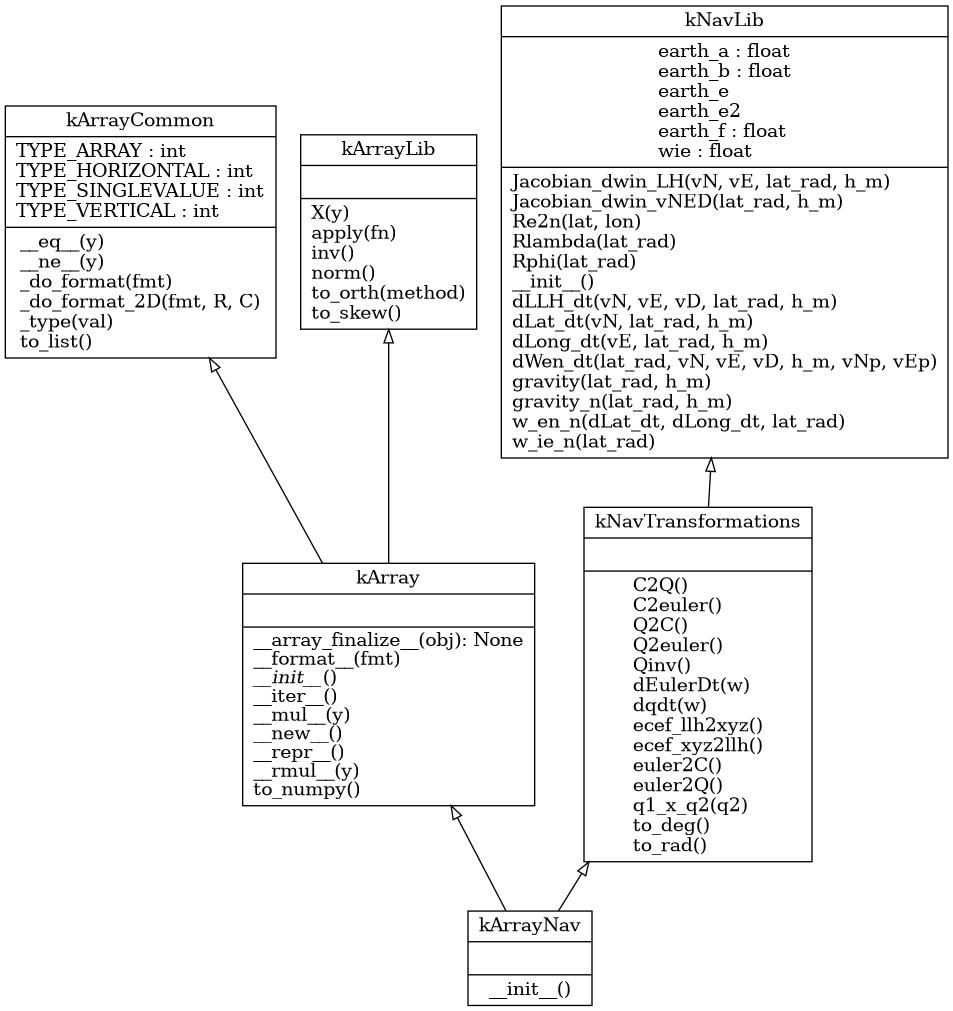
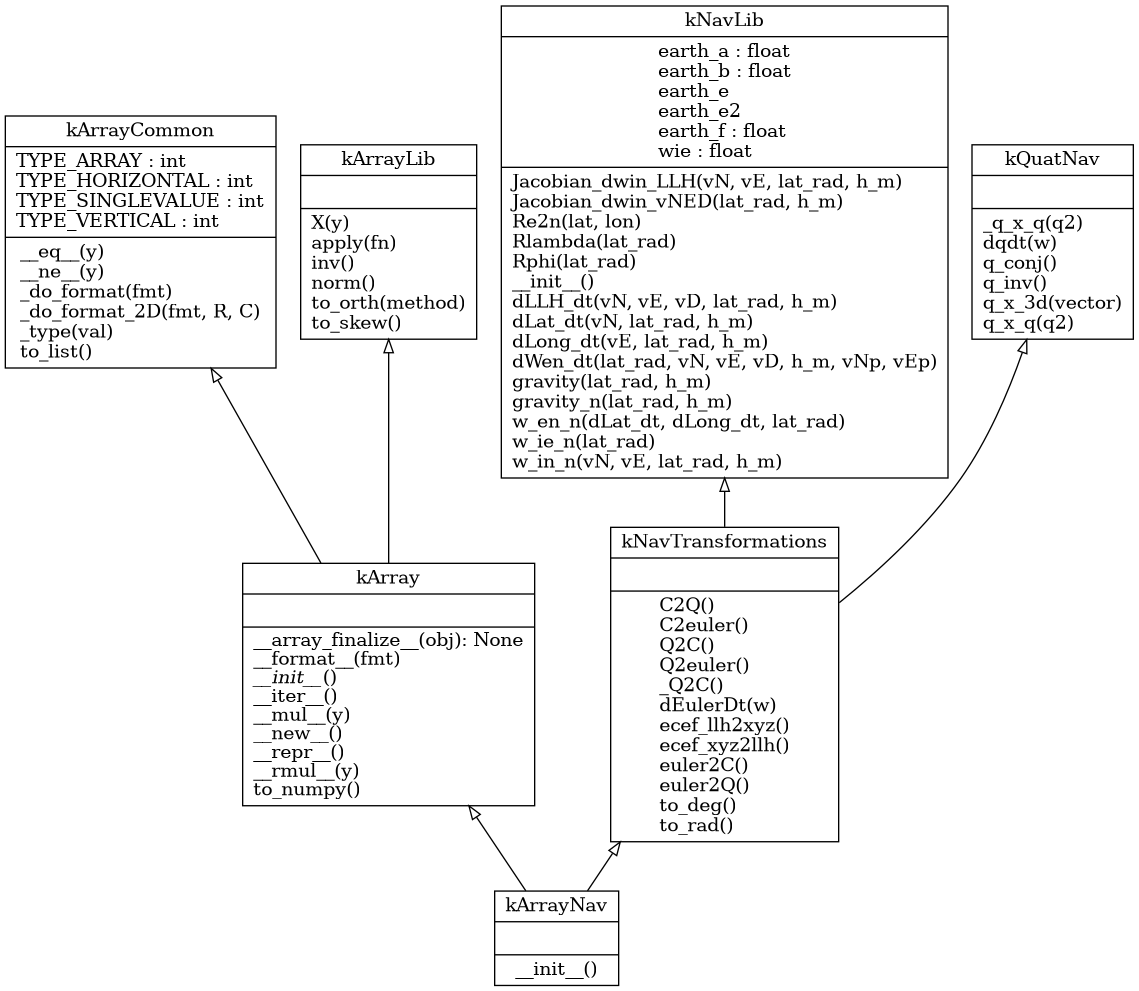
refactoring: quaternion-methods isolated in a new class

diff --git a/knavigation/kQuatNav.py b/knavigation/kQuatNav.py
@@ -1,0 +1,184 @@
+#!/usr/bin/env python3
+# -*- coding: utf-8 -*-
+#>>--<<..>>--<<..>>--<<..>>--<<..>>--<<..>>--<<..>>--<<..>>
+"""
+Datei: kQuatNav.py
+Beschreibung: Some basic operations with quaternions.
+Autor: Luciano Auguto Kruk
+Erstellt am: 06.09.2025
+Version: 1.0.0
+Lizenz:
+GitHub:
+"""
+#>>--<<..>>--<<..>>--<<..>>--<<..>>--<<..>>--<<..>>--<<..>>
+import sys
+print( "**************************************" )
+print(f"** __name__    = {__name__}")
+print(f"** __package__ = {__package__}")
+print(f"** sys.path[0] = {sys.path[0]}")
+#>>--<<..>>--<<..>>--<<..>>--<<..>>--<<..>>--<<..>>--<<..>>
+import numpy as np
+from .kArray    import kArray
+#>>--<<..>>--<<..>>--<<..>>--<<..>>--<<..>>--<<..>>--<<..>>
+
+#>>--<<..>>--<<..>>--<<..>>--<<..>>--<<..>>--<<..>>--<<..>>
+class kQuatNav:
+    """
+    The operations described here are based on Titterton & Weston, Strapdown Inertial Navigation Theory.
+    The convention here is to have quaternions with the real part as the first element:
+
+            q = R + i.U + j.V + k.W
+    """
+
+    def q_inv(self):
+        """
+        Calculates the inverse of a quaternion. This is similar to inverting a
+        transformation matrix.
+        """
+        shape = self.shape
+        tmp   = self.squeeze().tolist()
+        ret   = [tmp[0]] + [-i for i in tmp[1:]]
+        return self.__class__( np.asarray(ret).reshape(shape) / sum( [i**2 for i in ret] ))
+
+    def q_conj(self):
+        """
+        Calculates the conjugated quaternion of the input.
+
+        **Remark**: the first element is the real part of the quaternion here: (a + b.i + c.j + d.k)
+        """
+        #return self.__class__( np.hstack(([self[0]] + [-i for i in self[1:]])), hvector=False )
+        return self.__class__( [-i if idx >= 1 else i for idx,i in enumerate(self) ], hvector=False )
+
+    def q_x_q(self, q2):
+        """
+        Navigation -- multiplies two quaternions
+        (Titterton (3.55)-(3.56))
+
+        **Remark** Here there are some hints on how to cascade quaternions for multiple
+        transformations. See the respective test-units for details on the implementation.
+
+            euler_a2b  -->  Ca2b | qa2b
+            euler_b2c  -->  Cb2c | qb2c
+
+            Ca2c = Cb2c * Ca2b
+            qa2c = qa2b o qb2c  <== where 'o' is the product `q_x_q()`.
+
+        output: np.array quaternion q3=q1.q2
+        """
+
+        q1 = self.squeeze()
+        assert len(q1) == 4
+
+        if hasattr(q2, "squeeze"):
+            q2 = q2.squeeze()
+
+        assert len(q2) == 4
+
+        q3 = np.array([
+            (q1[0]*q2[0]) - (q1[1]*q2[1]) - (q1[2]*q2[2]) - (q1[3]*q2[3]),
+            (q1[1]*q2[0]) + (q1[0]*q2[1]) - (q1[3]*q2[2]) + (q1[2]*q2[3]),
+            (q1[2]*q2[0]) + (q1[0]*q2[2]) + (q1[3]*q2[1]) - (q1[1]*q2[3]),
+            (q1[3]*q2[0]) + (q1[0]*q2[3]) - (q1[2]*q2[1]) + (q1[1]*q2[2]),
+        ])
+
+        return self.__class__( q3, hvector=False )
+
+    def _q_x_q(self, q2):
+        """
+        Same as q_x_q(), but calculate with another equation, more theoretical.
+
+        q = [s v^T]^T
+
+        """
+        # assumption: q = [real, imag^T]^T
+        q1 = self.squeeze()
+        q2 = q2.squeeze()
+
+        s1 = q1[0]
+        v1 = q1[1:].view(np.ndarray)
+
+        s2 = q2[0]
+        v2 = q2[1:].view(np.ndarray)
+
+        # q1 x q2:
+        s3 = (s1*s2) - (v1.dot(v2))
+        v3 = (s1*v2) + (s2*v1) + np.cross(v1,v2)
+
+        return self.__class__( np.hstack( (s3,v3) ), hvector=False )
+
+    def q_x_3d(self, vector):
+        """
+        Resolves a vector in another frame.
+        This is similar to Ca2b x vector, but directly using quaternions.
+        (Titterton (3.57))
+
+        **Remark** Note that Titterton's equation matches his convention of
+        creating quaternions using euler angles from frames a^ to b^, but
+        performing transformations from b^ to a^.
+
+        Here we provide an operation that uses a quaternion from a^ to b^ and
+        a vector transformation also from a^ to b^. Hence:
+        rb = q_a2b*  o  ra  o  q_a2b
+
+        The vectors rb and ra are quaternion-form vectors (real-part = 0),
+        but this is not important for inputs and output, which are 3D only.
+
+        Inputs:
+            Q4 (a + b.i + c.j + d.k)  :  quaternions
+            vector                    :  3D vector
+
+        Returns
+            vector  :   3D vector resolved in another frame
+
+        """
+
+        # To be complete, we shall include the next line to invert the
+        # quaternion and have the correct input for the transformation without
+        # the C matrix.
+        q = self.q_inv().squeeze() # <== first, use the inverse; see comments in the docstring
+        v = vector.squeeze()
+
+        # checks:
+        assert len(q) == 4
+        assert len(v) == 3
+
+        # augmenting v to be an imaginary quaternion:
+        v = np.hstack((0, v))
+
+        # conjugate q:
+        q_j = q.q_conj()
+
+        # transformed vector (without the real part):
+        ret = self.__class__(q).q_x_q(v).q_x_q(q_j)[1:] # <= to remove the real part
+
+        return ret
+
+    def dqdt(self, w):
+        """
+        The derivative of the quaternions is $\\dot{q} = 1/2 .B(w).q$
+        This funtion returns $\\dot{q}$.
+        : input  : q4
+        : output : d(q4)dt
+        """
+
+        assert len(self.squeeze()) == 4
+
+        K      = 1e1
+        cq     = kArray( [i for i in self], hvector=False )
+        cq2    = kArray( [i*i for i in self], hvector=False )
+        W      = kArray( w, hvector=True )
+        epslon = 1.0 - sum(cq2.to_list())
+
+        B = kArray( [
+            [   0, -W[0][0], -W[0][1], -W[0][2]],
+            [W[0][0],     0,  W[0][2], -W[0][1]],
+            [W[0][1], -W[0][2],     0,  W[0][0]],
+            [W[0][2],  W[0][1], -W[0][0],     0]
+        ] )
+
+        dq = (0.5 * B * cq) + (K*epslon*cq)
+        return self.__class__( dq )
+
+#>>--<<..>>--<<..>>--<<..>>--<<..>>--<<..>>--<<..>>--<<..>>
+#>>--<<..>>--<<..>>--<<..>>--<<..>>--<<..>>--<<..>>--<<..>>
+#>>--<<..>>--<<..>>--<<..>>--<<..>>--<<..>>--<<..>>--<<..>>

diff --git a/knavigation/kArrayNav.py b/knavigation/kArrayNav.py
@@ -18,14 +18,15 @@ print(f"** __package__ = {__package__}")
 print(f"** sys.path[0] = {sys.path[0]}")
 #>>--<<..>>--<<..>>--<<..>>--<<..>>--<<..>>--<<..>>--<<..>>
 import numpy as np
-from math     import sin, sqrt, cos, tan, atan, atan2, asin, pi
-from mpmath   import sec
-from .kArray  import kArray
-from .kNavLib import kNavLib
+from math      import sin, sqrt, cos, tan, atan, atan2, asin, pi
+from mpmath    import sec
+from .kArray   import kArray
+from .kNavLib  import kNavLib
+from .kQuatNav import kQuatNav
 #>>--<<..>>--<<..>>--<<..>>--<<..>>--<<..>>--<<..>>--<<..>>
 
 #>>--<<..>>--<<..>>--<<..>>--<<..>>--<<..>>--<<..>>--<<..>>
-class kNavTransformations(kNavLib):
+class kNavTransformations(kNavLib, kQuatNav):
 
     def to_deg(self):
         return self.__class__(self * 180. / pi)
@@ -218,129 +219,6 @@ class kNavTransformations(kNavLib):
         """
         return self.__class__( self.C2euler().euler2Q() )
 
-    def q_inv(self):
-        """
-        Calculates the inverse of a quaternion. This is similar to inverting a
-        transformation matrix.
-        """
-        shape = self.shape
-        tmp   = self.squeeze().tolist()
-        ret   = [tmp[0]] + [-i for i in tmp[1:]]
-        return self.__class__( np.asarray(ret).reshape(shape) / sum( [i**2 for i in ret] ))
-
-    def q_conj(self):
-        """
-        Calculates the conjugated quaternion of the input.
-
-        **Remark**: the first element is the real part of the quaternion here: (a + b.i + c.j + d.k)
-        """
-        #return self.__class__( np.hstack(([self[0]] + [-i for i in self[1:]])), hvector=False )
-        return self.__class__( [-i if idx >= 1 else i for idx,i in enumerate(self) ], hvector=False )
-
-    def q_x_q(self, q2):
-        """
-        Navigation -- multiplies two quaternions
-        (Titterton (3.55)-(3.56))
-
-        **Remark** Here there are some hints on how to cascade quaternions for multiple
-        transformations. See the respective test-units for details on the implementation.
-
-            euler_a2b  -->  Ca2b | qa2b
-            euler_b2c  -->  Cb2c | qb2c
-
-            Ca2c = Cb2c * Ca2b
-            qa2c = qa2b o qb2c  <== where 'o' is the product `q_x_q()`.
-
-        output: np.array quaternion q3=q1.q2
-        """
-
-        q1 = self.squeeze()
-        assert len(q1) == 4
-
-        if isinstance(q2, kArrayNav) or isinstance(q2, kArray):
-            q2 = q2.squeeze()
-        assert len(q2) == 4
-
-        q3 = np.array([
-            (q1[0]*q2[0]) - (q1[1]*q2[1]) - (q1[2]*q2[2]) - (q1[3]*q2[3]),
-            (q1[1]*q2[0]) + (q1[0]*q2[1]) - (q1[3]*q2[2]) + (q1[2]*q2[3]),
-            (q1[2]*q2[0]) + (q1[0]*q2[2]) + (q1[3]*q2[1]) - (q1[1]*q2[3]),
-            (q1[3]*q2[0]) + (q1[0]*q2[3]) - (q1[2]*q2[1]) + (q1[1]*q2[2]),
-        ])
-
-        return self.__class__( q3, hvector=False )
-
-    def _q_x_q(self, q2):
-        """
-        Same as q_x_q(), but calculate with another equation, more theoretical.
-
-        q = [s v^T]^T
-
-        """
-        # assumption: q = [real, imag^T]^T
-        q1 = self.squeeze()
-        q2 = q2.squeeze()
-
-        s1 = q1[0]
-        v1 = q1[1:].view(np.ndarray)
-
-        s2 = q2[0]
-        v2 = q2[1:].view(np.ndarray)
-
-        # q1 x q2:
-        s3 = (s1*s2) - (v1.dot(v2))
-        v3 = (s1*v2) + (s2*v1) + np.cross(v1,v2)
-
-        return self.__class__( np.hstack( (s3,v3) ), hvector=False )
-
-    def q_x_3d(self, vector):
-        """
-        Resolves a vector in another frame.
-        This is similar to Ca2b x vector, but directly using quaternions.
-        (Titterton (3.57))
-
-        **Remark** Note that Titterton's equation matches his convention of
-        creating quaternions using euler angles from frames a^ to b^, but
-        performing transformations from b^ to a^.
-
-        Here we provide an operation that uses a quaternion from a^ to b^ and
-        a vector transformation also from a^ to b^. Hence:
-        rb = q_a2b*  o  ra  o  q_a2b
-
-        The vectors rb and ra are quaternion-form vectors (real-part = 0),
-        but this is not important for inputs and output, which are 3D only.
-
-        Inputs:
-            Q4 (a + b.i + c.j + d.k)  :  quaternions
-            vector                    :  3D vector
-
-        Returns
-            vector  :   3D vector resolved in another frame
-
-        """
-
-        # To be complete, we shall include the next line to invert the
-        # quaternion and have the correct input for the transformation without
-        # the C matrix.
-        q = self.q_inv().squeeze() # <== first, use the inverse; see comments in the docstring
-        v = vector.squeeze()
-
-        # checks:
-        assert len(q) == 4
-        assert len(v) == 3
-
-        # augmenting v to be an imaginary quaternion:
-        v = np.hstack((0, v))
-
-        # conjugate q:
-        q_j = q.q_conj()
-
-        # transformed vector (without the real part):
-        ret = self.__class__(q).q_x_q(v).q_x_q(q_j)[1:] # <= to remove the real part
-
-        return ret
-
-
     def ecef_llh2xyz(self):
         """
         : Convert from ECEF-geodetic to XYZe.
@@ -395,32 +273,6 @@ class kNavTransformations(kNavLib):
         lon = atan2(y, x);
 
         return self.__class__( [lat, lon, h] )
-
-    def dqdt(self, w):
-        """
-        The derivative of the quaternions is $\\dot{q} = 1/2 .B(w).q$
-        This funtion returns $\\dot{q}$.
-        : input  : q4
-        : output : d(q4)dt
-        """
-
-        assert len(self.squeeze()) == 4
-
-        K      = 1e1
-        cq     = kArray( [i for i in self], hvector=False )
-        cq2    = kArray( [i*i for i in self], hvector=False )
-        W      = kArray( w, hvector=True )
-        epslon = 1.0 - sum(cq2.to_list())
-
-        B = kArray( [
-            [   0, -W[0][0], -W[0][1], -W[0][2]],
-            [W[0][0],     0,  W[0][2], -W[0][1]],
-            [W[0][1], -W[0][2],     0,  W[0][0]],
-            [W[0][2],  W[0][1], -W[0][0],     0]
-        ] )
-
-        dq = (0.5 * B * cq) + (K*epslon*cq)
-        return self.__class__( dq )
 
     def dEulerDt(self, w):
         """